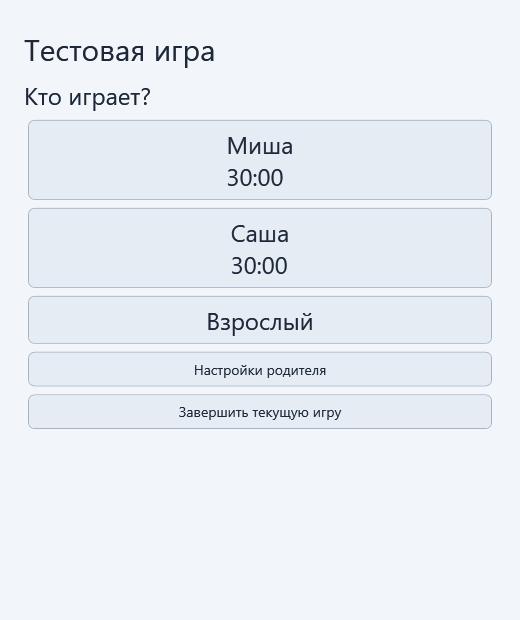
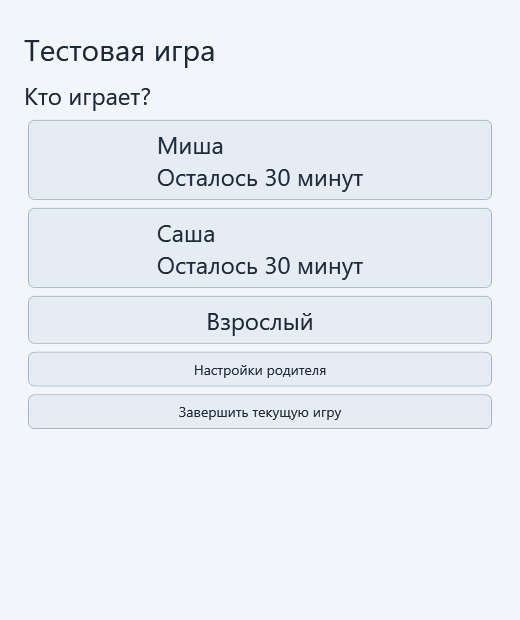
Release 1.0.2: automatic window behavior and readable remaining time

Changed region(s): [[0.3077, 0.3677, 0.6769, 0.4597], [0.3077, 0.2145, 0.7077, 0.3065]]

diff --git a/src/GameLimiter.App/SettingsWindow.cs b/src/GameLimiter.App/SettingsWindow.cs
@@ -74,6 +74,12 @@ public sealed class SettingsWindow : Window
         var pinPanel = Tab("PIN"); pinPanel.Children.Add(Ui.Text("Новый PIN (4–12 цифр)")); var newPin = new PasswordBox { MaxLength = 12, FontSize = 20 }; pinPanel.Children.Add(newPin); pinPanel.Children.Add(Ui.Text("Повторите PIN")); var confirmPin = new PasswordBox { MaxLength = 12, FontSize = 20 }; pinPanel.Children.Add(confirmPin);
         pinPanel.Children.Add(Ui.Button("Изменить PIN", () => { if (newPin.Password != confirmPin.Password) throw new ArgumentException("PIN не совпадают."); store.Set("ParentPin", PinService.Hash(newPin.Password)); newPin.Clear(); confirmPin.Clear(); App.Log.Write("Parent PIN changed"); MessageBox.Show("PIN изменён.", "GameLimiter"); }));
         var diagnostics = Tab("Общие");
+        diagnostics.Children.Add(Ui.Text("Поведение приложения", 20));
+        var minimize = Ui.Check(diagnostics, "Сворачивать GameLimiter при запуске игры", store.MinimizeOnGameStart);
+        var exit = Ui.Check(diagnostics, "Закрывать GameLimiter после завершения игры", store.ExitOnGameEnd);
+        minimize.Click += (_, _) => Ui.Guard(() => { store.MinimizeOnGameStart = minimize.IsChecked == true; App.Log.Write("Minimize on game start: " + store.MinimizeOnGameStart); });
+        exit.Click += (_, _) => Ui.Guard(() => { store.ExitOnGameEnd = exit.IsChecked == true; App.Log.Write("Exit on game end: " + store.ExitOnGameEnd); });
+        diagnostics.Children.Add(Ui.Text("Оба параметра включены по умолчанию. Изменения сохраняются сразу."));
         diagnostics.Children.Add(Ui.Text("Оформление", 20));
         var themeStatus = Ui.Text(ThemeManager.Current == "Dark" ? "Текущая тема: тёмная" : "Текущая тема: светлая");
         var themeButtons = new WrapPanel();
@@ -90,7 +96,7 @@ public sealed class SettingsWindow : Window
         diagnostics.Children.Add(themeStatus);
         diagnostics.Children.Add(Ui.Text("Выбор сохраняется сразу и применяется ко всем окнам."));
         diagnostics.Children.Add(Ui.Text("Диагностика", 20));
-        diagnostics.Children.Add(Ui.Text("GameLimiter 1.0.1 · Windows x64\nБаза: " + Path.Combine(App.DataFolder, "gametime.db") + "\nЖурналы: " + Path.Combine(App.DataFolder, "logs")));
+        diagnostics.Children.Add(Ui.Text("GameLimiter 1.0.2 · Windows x64\nБаза: " + Path.Combine(App.DataFolder, "gametime.db") + "\nЖурналы: " + Path.Combine(App.DataFolder, "logs")));
         diagnostics.Children.Add(Ui.Button("Открыть папку данных", () => Process.Start(new ProcessStartInfo(App.DataFolder) { UseShellExecute = true })));
         diagnostics.Children.Add(Ui.Button("Открыть журналы", () => { var folder = Path.Combine(App.DataFolder, "logs"); Directory.CreateDirectory(folder); Process.Start(new ProcessStartInfo(folder) { UseShellExecute = true }); }));
         diagnostics.Children.Add(Ui.Text("Обычный запуск игры — через её ярлык. Во время игры окно GameLimiter можно свернуть; настройки доступны на панели задач. Изменения полей сохраняются кнопкой «Сохранить»."));

diff --git a/src/GameLimiter.App/MainWindow.cs b/src/GameLimiter.App/MainWindow.cs
@@ -23,6 +23,7 @@ public sealed class MainWindow : Window
         panel.Children.Add(Ui.Button("Настройки родителя", () => { if (Authenticate()) new SettingsWindow(store, coordinator) { Owner = this }.ShowDialog(); }));
         panel.Children.Add(Ui.Button("Завершить текущую игру", () => { if (coordinator.Active && Authenticate()) coordinator.Stop(); }));
         coordinator.Updated += (remaining, state, handle) => { status.Text = state == SessionState.Completed ? "Игра завершена" : remaining == long.MaxValue ? "Взрослый · без лимита" : $"Осталось {Ui.Time(remaining)}"; overlay.Update(remaining, state, handle, store.Settings); };
+        coordinator.Started += () => { if (store.MinimizeOnGameStart) WindowState = WindowState.Minimized; };
         refresh.Tick += (_, _) => { if (!coordinator.Active) RefreshPlayers(); }; refresh.Start(); RefreshPlayers();
         Closing += (_, e) => { if (coordinator.Active) { e.Cancel = true; MessageBox.Show("Сначала завершите игру. Таймер продолжает работать; окно можно свернуть.", "GameLimiter"); } };
         Closed += (_, _) => { refresh.Stop(); overlay.Close(); Application.Current.Shutdown(); };
@@ -36,7 +37,7 @@ public sealed class MainWindow : Window
         foreach (var child in store.Children().Where(c => c.Enabled))
         {
             var remaining = store.Allowance(child.Id, DateOnly.FromDateTime(DateTime.Now)).Remaining;
-            var button = Ui.Button(child.Name + "\n" + (remaining == 0 ? "На сегодня время закончилось" : Ui.Time(remaining)), () => _ = StartAsync(child.Id, null)); button.FontSize = 24; button.MinHeight = 80; button.IsEnabled = remaining > 0; players.Children.Add(button);
+            var button = Ui.Button(child.Name + "\n" + RemainingTimeText.Format(remaining), () => _ = StartAsync(child.Id, null)); button.FontSize = 24; button.MinHeight = 80; button.IsEnabled = remaining > 0; players.Children.Add(button);
         }
         var adult = Ui.Button("Взрослый", () => { if (Authenticate()) AdultChoices(); }); adult.FontSize = 24; players.Children.Add(adult);
     }
@@ -52,13 +53,17 @@ public sealed class MainWindow : Window
     }
     private async Task StartAsync(long? child, int? adultSeconds)
     {
+        var completed = false;
         players.IsEnabled = false; status.Text = "Запускаем игру…";
         try
         {
             var currentGame = store.Games().FirstOrDefault(g => g.Id == game!.Id && g.Enabled) ?? throw new InvalidOperationException("Игра удалена или отключена в настройках.");
             await coordinator.RunAsync(currentGame, child, adultSeconds);
+            completed = true;
         }
-        catch (Exception ex) { App.Log.Write("Launch/session failure: " + ex); MessageBox.Show(ex.Message, "GameLimiter"); }
+        catch (Exception ex) { WindowState = WindowState.Normal; App.Log.Write("Launch/session failure: " + ex); MessageBox.Show(this, ex.Message, "GameLimiter"); }
         finally { players.IsEnabled = true; RefreshPlayers(); }
+        // RunAsync returns only after final accounting and process cleanup; errors stay visible.
+        if (completed && store.ExitOnGameEnd) Close();
     }
 }

diff --git a/tests/GameLimiter.Core.Tests/SessionLifecycleTests.cs b/tests/GameLimiter.Core.Tests/SessionLifecycleTests.cs
@@ -1,0 +1,53 @@
+using GameLimiter.Core;
+using GameLimiter.Infrastructure;
+using Microsoft.Data.Sqlite;
+using Xunit;
+namespace GameLimiter.Core.Tests;
+
+public sealed class SessionLifecycleTests : IDisposable
+{
+    private readonly string folder = Path.Combine(Path.GetTempPath(), "GameLimiterLifecycle-" + Guid.NewGuid());
+    [Fact]
+    public async Task StartedIsRaisedAfterAttachmentAndReturnFollowsFinalPersistence()
+    {
+        var store = new Store(Path.Combine(folder, "test.db"));
+        var process = new TestProcess();
+        var coordinator = new SessionCoordinator(store, new Launcher(process), new LocalLog(folder));
+        var started = 0;
+        coordinator.Started += () =>
+        {
+            started++;
+            Assert.True(coordinator.Active);
+            Assert.Equal(process.Id, Assert.Single(store.Interrupted()).Pid);
+            coordinator.Stop();
+        };
+        await coordinator.RunAsync(new("test", "Test", "unused.exe"), null, null);
+        Assert.Equal(1, started); Assert.True(process.HasExited); Assert.True(process.Disposed);
+        Assert.False(coordinator.Active); Assert.Empty(store.Interrupted());
+    }
+    [Fact]
+    public async Task FailedLaunchDoesNotRaiseStartedAndPropagatesError()
+    {
+        var store = new Store(Path.Combine(folder, "test.db"));
+        var coordinator = new SessionCoordinator(store, new Launcher(null), new LocalLog(folder));
+        var started = false; coordinator.Started += () => started = true;
+        await Assert.ThrowsAsync<InvalidOperationException>(() => coordinator.RunAsync(new("test", "Test", "unused.exe"), null, null));
+        Assert.False(started); Assert.False(coordinator.Active);
+    }
+    private sealed class Launcher(TestProcess? process) : IProcessLauncher
+    {
+        public Task<IGameProcess> LaunchAsync(Game game, int timeoutSeconds, CancellationToken cancellationToken)
+            => process is null ? Task.FromException<IGameProcess>(new IOException("Launch failed")) : Task.FromResult<IGameProcess>(process);
+    }
+    private sealed class TestProcess : IGameProcess
+    {
+        public int Id => 123;
+        public long StartUtcTicks => DateTime.UtcNow.Ticks;
+        public nint WindowHandle => 0;
+        public bool HasExited { get; private set; }
+        public bool Disposed { get; private set; }
+        public Task CloseAsync(int graceSeconds, CancellationToken cancellationToken) { HasExited = true; return Task.CompletedTask; }
+        public void Dispose() => Disposed = true;
+    }
+    public void Dispose() { SqliteConnection.ClearAllPools(); if (Directory.Exists(folder)) Directory.Delete(folder, true); }
+}

diff --git a/src/GameLimiter.App/SmokeTest.cs b/src/GameLimiter.App/SmokeTest.cs
@@ -37,13 +37,25 @@ internal static class SmokeTest
                     Render(settings, $"settings-games-shortcuts{suffix}.png");
                     scroll.ScrollToTop();
                 }
-                if (i == 4) Render(settings, $"theme-choice{suffix}.png", 220);
+                if (i == 4) Render(settings, $"theme-choice{suffix}.png", 470);
             }
             Render(new PinWindow(store, true), $"first-run{suffix}.png");
             Render(new MainWindow(store, coordinator, game), $"players{suffix}.png");
 
             // Exercise the real Settings theme button and verify the saved preference.
             var general = (StackPanel)((ScrollViewer)((TabItem)tabs.Items[4]).Content).Content;
+            foreach (var checkbox in general.Children.OfType<CheckBox>())
+            {
+                checkbox.IsChecked = false;
+                checkbox.RaiseEvent(new RoutedEventArgs(CheckBox.ClickEvent));
+            }
+            if (store.MinimizeOnGameStart || store.ExitOnGameEnd) throw new InvalidOperationException("Window preferences did not save.");
+            foreach (var checkbox in general.Children.OfType<CheckBox>())
+            {
+                checkbox.IsChecked = true;
+                checkbox.RaiseEvent(new RoutedEventArgs(CheckBox.ClickEvent));
+            }
+            if (!store.MinimizeOnGameStart || !store.ExitOnGameEnd) throw new InvalidOperationException("Window preferences did not restore.");
             var choices = general.Children.OfType<WrapPanel>().First();
             var opposite = theme == "Dark" ? "Светлая" : "Тёмная";
             choices.Children.OfType<Button>().Single(b => (string)b.Content == opposite).RaiseEvent(new RoutedEventArgs(Button.ClickEvent));

diff --git a/src/GameLimiter.Infrastructure/Store.cs b/src/GameLimiter.Infrastructure/Store.cs
@@ -42,6 +42,8 @@ public sealed class Store
     private static object? Scalar(SqliteConnection db, string sql, params object?[] values) { using var cmd = Command(db, sql, values); return cmd.ExecuteScalar(); }
     public string? Get(string key) { using var db = Open(); return Scalar(db, "SELECT Value FROM AppSettings WHERE Key=$0", key) as string; }
     public void Set(string key, string value) { using var db = Open(); Execute(db, "INSERT INTO AppSettings VALUES($0,$1) ON CONFLICT(Key) DO UPDATE SET Value=$1", key, value); }
+    public bool MinimizeOnGameStart { get => Get("MinimizeOnGameStart") != "False"; set => Set("MinimizeOnGameStart", value.ToString()); }
+    public bool ExitOnGameEnd { get => Get("ExitOnGameEnd") != "False"; set => Set("ExitOnGameEnd", value.ToString()); }
     public TimerSettings Settings => JsonSerializer.Deserialize<TimerSettings>(Get("Timer") ?? "{}")!;
     public void SaveSettings(TimerSettings value) { value.Validate(); Set("Timer", JsonSerializer.Serialize(value)); }
     public List<Child> Children(bool archived = false)

diff --git a/tests/GameLimiter.Core.Tests/StoreTests.cs b/tests/GameLimiter.Core.Tests/StoreTests.cs
@@ -9,6 +9,16 @@ public sealed class StoreTests : IDisposable
     private readonly string folder = Path.Combine(Path.GetTempPath(), "GameLimiterTests-" + Guid.NewGuid());
     private Store Create() => new(Path.Combine(folder, "test.db"));
     [Fact]
+    public void WindowPreferencesDefaultToEnabledAndPersistIndependently()
+    {
+        var db = Create();
+        Assert.True(db.MinimizeOnGameStart); Assert.True(db.ExitOnGameEnd);
+        db.MinimizeOnGameStart = false;
+        Assert.False(Create().MinimizeOnGameStart); Assert.True(Create().ExitOnGameEnd);
+        db.ExitOnGameEnd = false; db.MinimizeOnGameStart = true;
+        Assert.True(Create().MinimizeOnGameStart); Assert.False(Create().ExitOnGameEnd);
+    }
+    [Fact]
     public void ChildrenCanBeAddedEditedArchivedWithoutLosingHistory()
     {
         var db = Create(); var c = db.SaveChild(new(0, "Child", 1800)); var session = db.Begin(c.Id, "game", DateTime.Now, 5); db.AddUsage(session, DateTime.Now, 120); db.End(session, "Test");

diff --git a/src/GameLimiter.Infrastructure/SessionCoordinator.cs b/src/GameLimiter.Infrastructure/SessionCoordinator.cs
@@ -8,6 +8,7 @@ public sealed class SessionCoordinator(Store store, IProcessLauncher launcher, L
     public long? ChildId { get; private set; }
     public event Action<long, SessionState, nint>? Updated;
     public event Action? UsageChanged;
+    public event Action? Started;
     private bool stopRequested;
     private bool allowanceReduced;
     public void SettingsChanged(bool reduced) { allowanceReduced |= reduced; }
@@ -59,6 +60,7 @@ public sealed class SessionCoordinator(Store store, IProcessLauncher launcher, L
             session = store.Begin(child, game.Id, DateTime.Now, 15, adultTimed: adultSeconds is not null);
             process = await launcher.LaunchAsync(game, store.Settings.Discovery, CancellationToken.None);
             store.Attach(session, process); accounted = DateTime.Now; elapsed.Start(); log.Write($"Session start {session}");
+            Started?.Invoke();
             var timer = new SessionTimer();
             while (!process.HasExited)
             {

diff --git a/tests/GameLimiter.Core.Tests/RemainingTimeTextTests.cs b/tests/GameLimiter.Core.Tests/RemainingTimeTextTests.cs
@@ -1,0 +1,20 @@
+using GameLimiter.Core;
+using Xunit;
+namespace GameLimiter.Core.Tests;
+
+public sealed class RemainingTimeTextTests
+{
+    [Theory]
+    [InlineData(0, "На сегодня время закончилось")]
+    [InlineData(1, "Осталось меньше минуты")]
+    [InlineData(59, "Осталось меньше минуты")]
+    [InlineData(60, "Осталась 1 минута")]
+    [InlineData(120, "Осталось 2 минуты")]
+    [InlineData(660, "Осталось 11 минут")]
+    [InlineData(840, "Осталось 14 минут")]
+    [InlineData(1260, "Осталась 21 минута")]
+    [InlineData(1320, "Осталось 22 минуты")]
+    [InlineData(2100, "Осталось 35 минут")]
+    [InlineData(2159, "Осталось 35 минут")]
+    public void DisplaysReadableRemainingTime(long seconds, string expected) => Assert.Equal(expected, RemainingTimeText.Format(seconds));
+}

diff --git a/src/GameLimiter.Core/RemainingTimeText.cs b/src/GameLimiter.Core/RemainingTimeText.cs
@@ -1,0 +1,14 @@
+namespace GameLimiter.Core;
+
+public static class RemainingTimeText
+{
+    public static string Format(long seconds)
+    {
+        if (seconds <= 0) return "На сегодня время закончилось";
+        if (seconds < 60) return "Осталось меньше минуты";
+        var minutes = seconds / 60;
+        var word = minutes % 100 is >= 11 and <= 14 ? "минут"
+            : minutes % 10 == 1 ? "минута" : minutes % 10 is >= 2 and <= 4 ? "минуты" : "минут";
+        return $"{(word == "минута" ? "Осталась" : "Осталось")} {minutes} {word}";
+    }
+}

diff --git a/README.md b/README.md
@@ -6,9 +6,9 @@
 
 ## Установка и настройка
 
-Скачайте установщик `GameLimiter-1.0.1-win-x64-Setup.exe` из раздела **Releases**. Программа устанавливается для текущего пользователя, .NET уже включён. Перед обновлением завершите игру и закройте GameLimiter.
+Скачайте установщик `GameLimiter-1.0.2-win-x64-Setup.exe` из раздела **Releases**. Программа устанавливается для текущего пользователя, .NET уже включён. Перед обновлением завершите игру и закройте GameLimiter.
 
-Для запуска без установки распакуйте **весь** архив `GameLimiter-1.0.1-win-x64-Portable.zip` в постоянную папку и запустите `GameLimiter.exe`.
+Для запуска без установки распакуйте **весь** архив `GameLimiter-1.0.2-win-x64-Portable.zip` в постоянную папку и запустите `GameLimiter.exe`.
 
 1. При первом запуске создайте родительский PIN из 4–12 цифр.
 2. Откройте **Настройки родителя → Дети**, добавьте детей и задайте дневные лимиты в минутах.
@@ -16,13 +16,17 @@
 4. Сохраните игру и нажмите **Создать / обновить ярлык**. Можно использовать значок игры или выбрать exe/ico.
 5. Закройте GameLimiter и запустите игровой ярлык. Ребёнок выбирает своё имя; игра запускается, если осталось время.
 
-Во время игры приложение можно свернуть. Настройки доступны по PIN через окно на панели задач. Завершить сессию можно закрытием игры или кнопкой **Завершить текущую игру** с PIN. Перед запуском другого игрового ярлыка закройте оставшееся окно GameLimiter. Одновременно поддерживается одна сессия.
+При успешном запуске игры окно GameLimiter автоматически сворачивается, а после завершения игры приложение закрывается само, сохранив использованное время. Настройки доступны по PIN через окно на панели задач. Завершить сессию можно закрытием игры или кнопкой **Завершить текущую игру** с PIN. Если автозакрытие отключено, перед запуском другого игрового ярлыка закройте оставшееся окно GameLimiter. Одновременно поддерживается одна сессия.
+
+На кнопке ребёнка показана понятная подпись: **«Осталось 35 минут»**. Для одной минуты используется «Осталась 1 минута», для неполной последней минуты — «Осталось меньше минуты».
 
 ## Настройки
 
 Все настройки собраны в одном окне: **Дети**, **Игры**, **Таймер**, **PIN**, **Общие**. Редактировать файлы вручную не требуется.
 
 На вкладке **Дети** показаны базовый лимит, сегодняшняя поправка, использованное и оставшееся время. Кнопки прибавления и вычитания минут действуют только сегодня. Своя поправка прибавляется к уже установленной. Если уменьшение исчерпало время текущей игры, ребёнок получает отсрочку — по умолчанию 60 секунд.
+
+В разделе **Общие** есть две независимые галочки: **Сворачивать GameLimiter при запуске игры** и **Закрывать GameLimiter после завершения игры**. Обе включены по умолчанию, в том числе после обновления с 1.0.1; изменения сохраняются сразу. Они действуют и для детских, и для взрослых сессий. При ошибке запуска или учёта окно остаётся открытым с сообщением.
 
 Кнопка **Взрослый** требует PIN и позволяет выбрать ограниченное время или безлимитную сессию без расходования детского лимита.
 
@@ -43,6 +47,10 @@
 Настройка игр и ярлыков:
 
 ![Настройки игр](docs/images/settings-games-shortcuts.png)
+
+Общие настройки в тёмной теме:
+
+![Автоматическое сворачивание и закрытие](docs/images/settings-4.png)
 
 Светлая тема:
 
